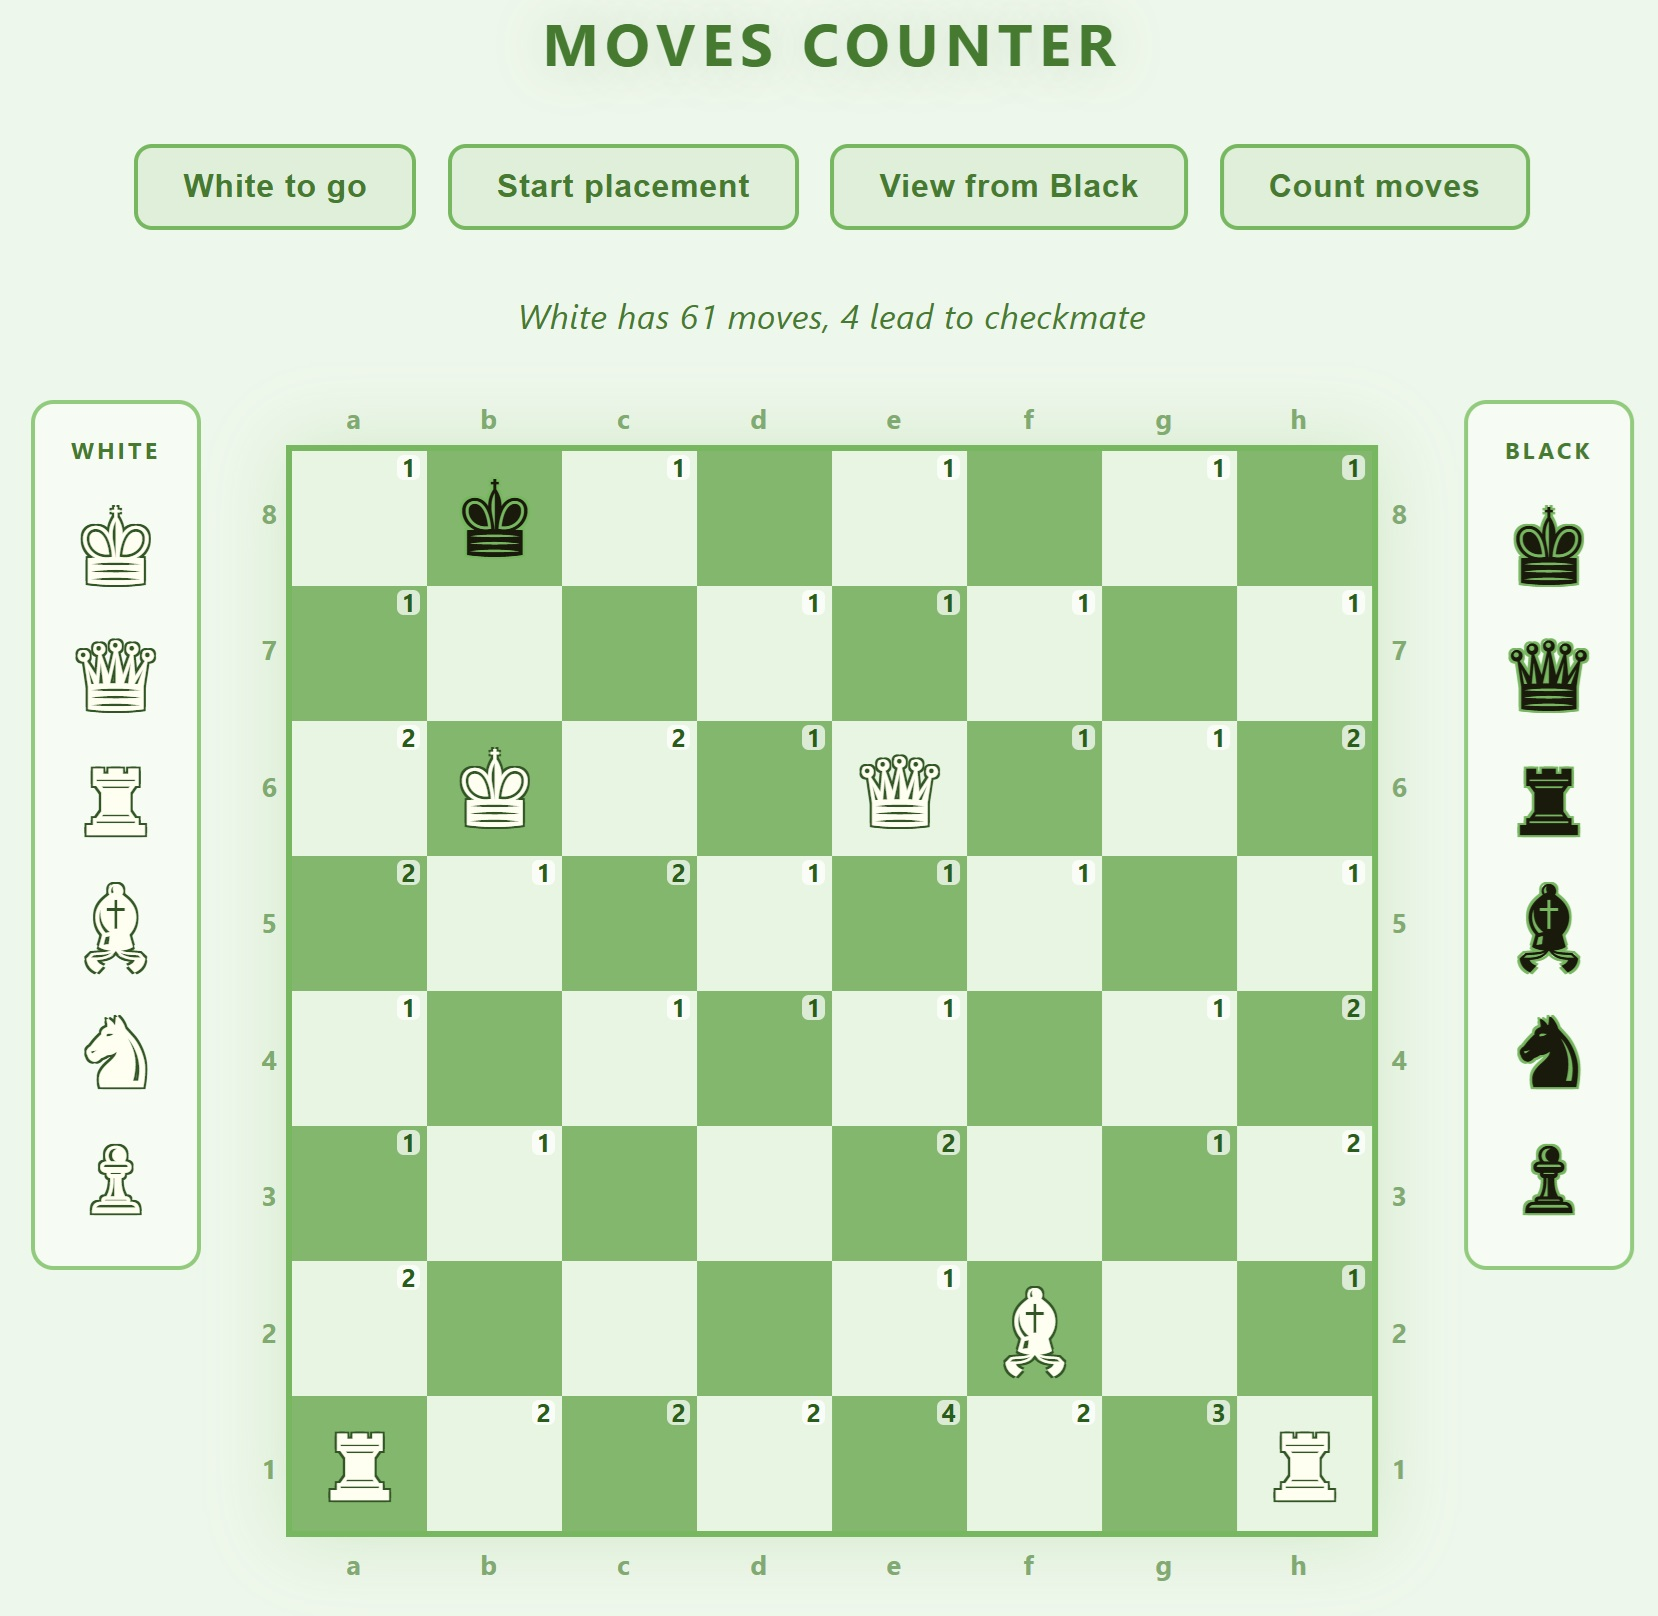
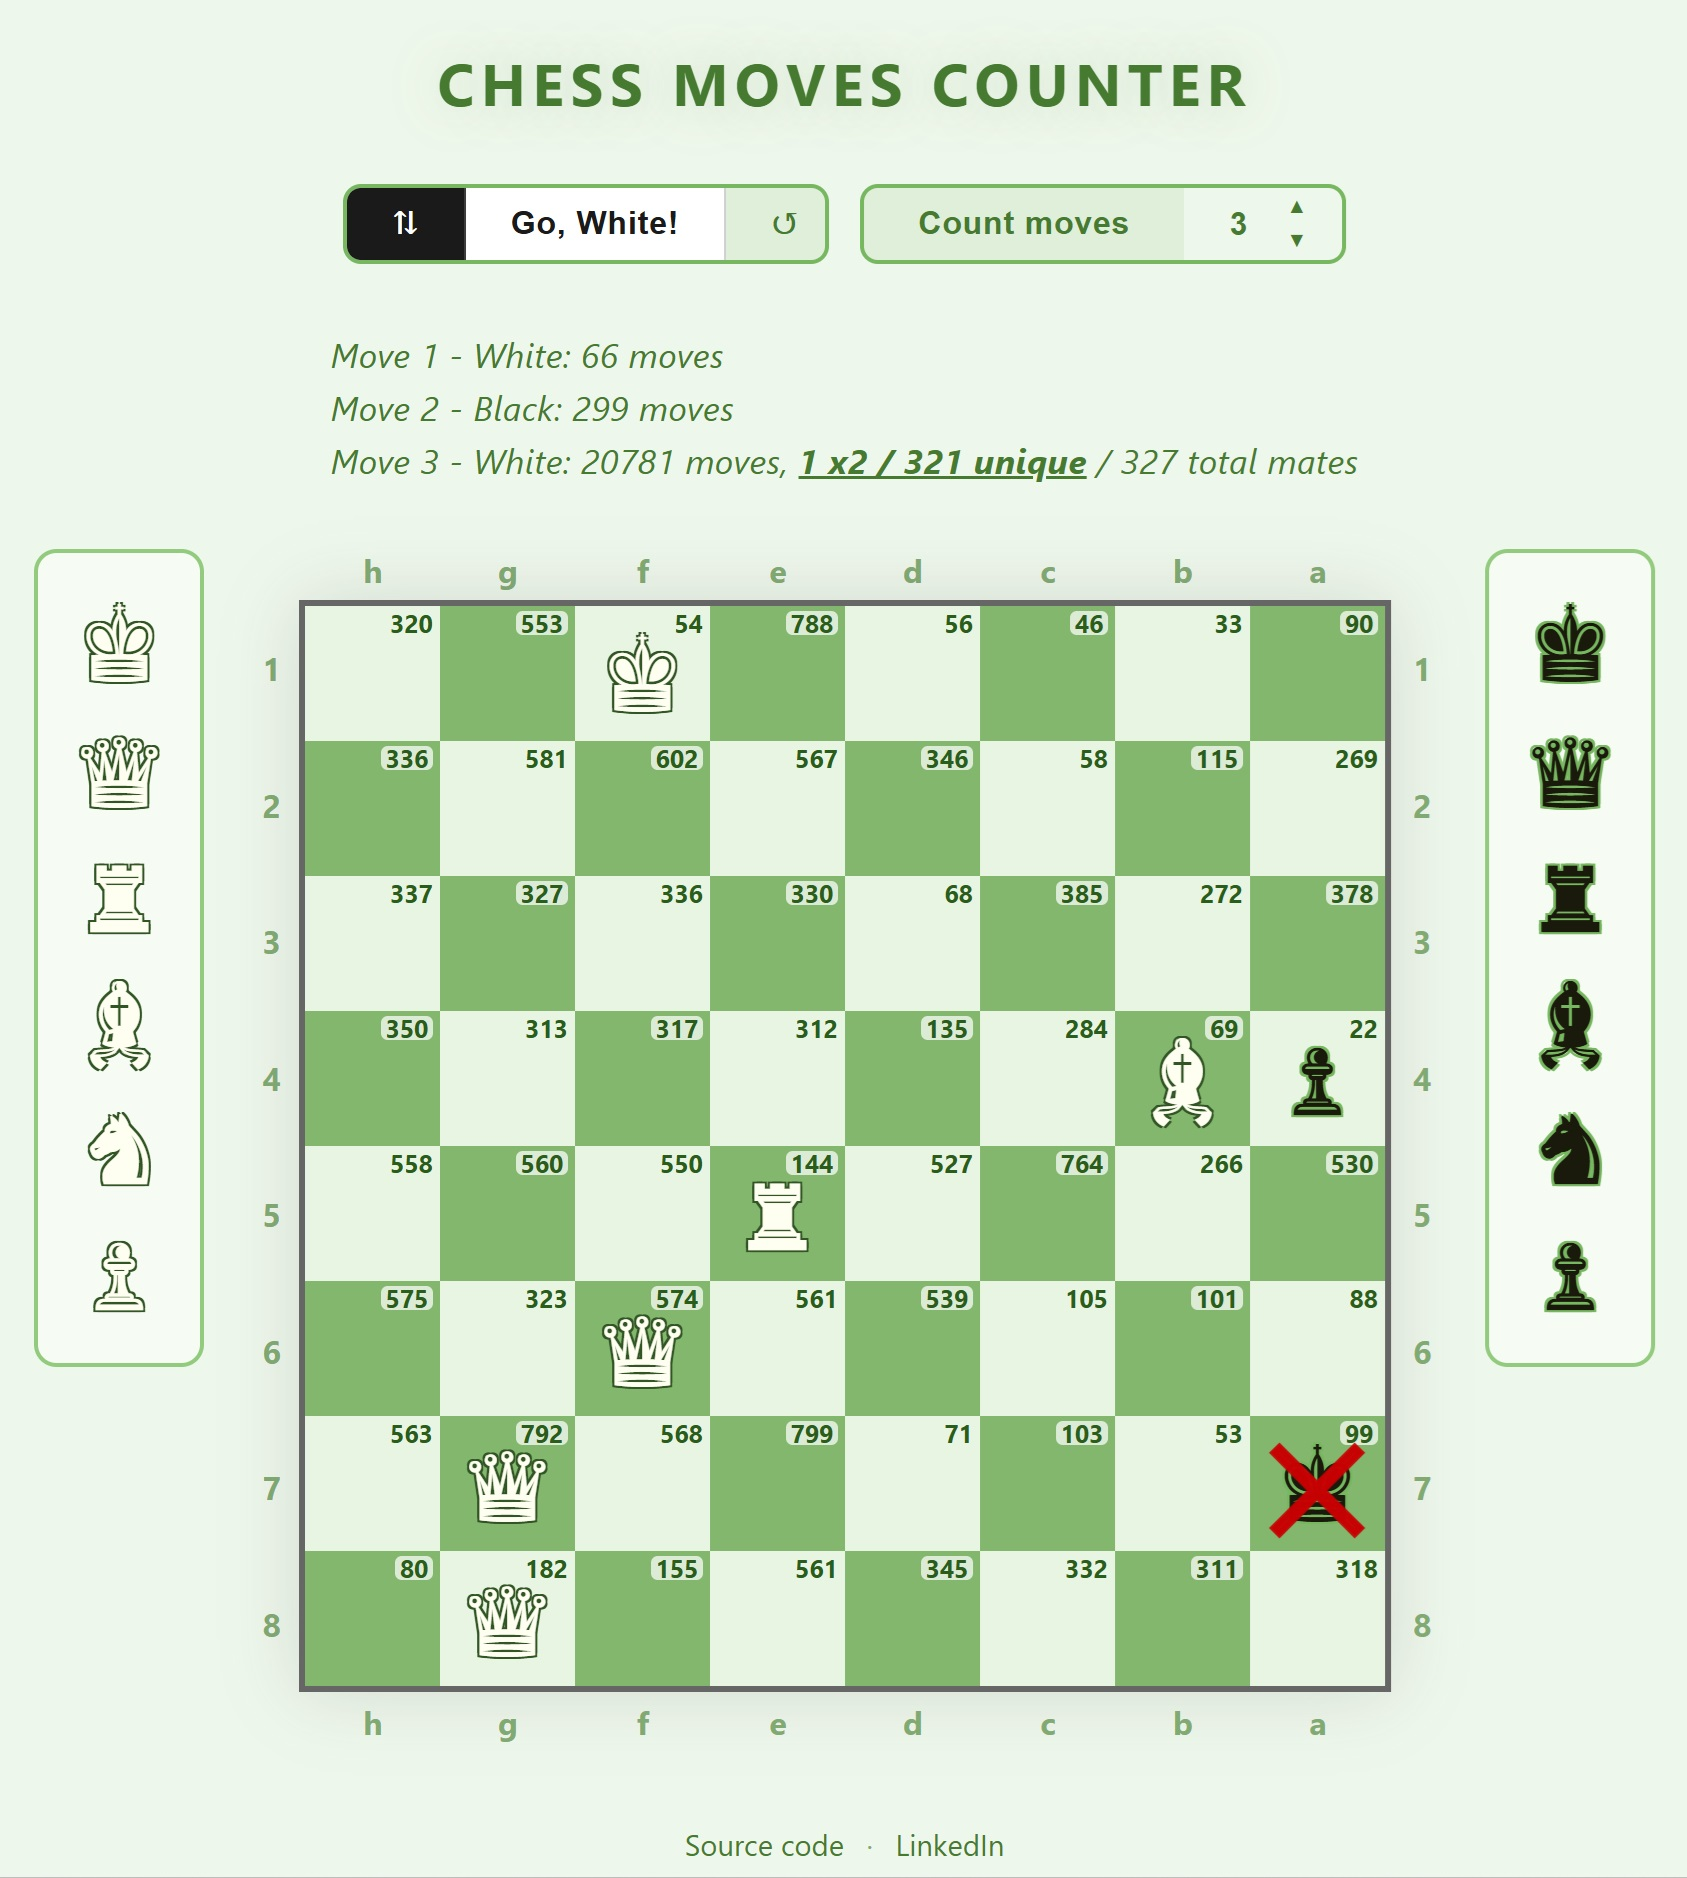
feature: organize duplicated mates scrolling

Changed region(s): [[0.1538, 0.1856, 0.9843, 0.9901], [0.0615, 0.0, 0.9228, 0.1547], [0.0, 0.2475, 0.123, 0.7735]]

diff --git a/index.html b/index.html
@@ -3,13 +3,25 @@
 <head>
     <meta charset="UTF-8">
     <meta name="viewport" content="width=device-width, initial-scale=1.0">
-    <title>Chess Setup</title>
+    <meta name="description" content="Browser-based chess board editor that counts legal moves from any custom position, including castling and en passant. Features multi-ply game tree analysis with checkmate detection.">
+    <meta name="author" content="rioran">
+    <meta name="theme-color" content="#3a7a2a">
+
+    <meta property="og:title" content="Chess Moves Counter">
+    <meta property="og:description" content="Set up any chess position and instantly count legal moves. Multi-ply tree walk with checkmate detection, castling and en passant support.">
+    <meta property="og:type" content="website">
+    <meta property="og:url" content="https://rioran.github.io/chess-moves-counter/">
+
+    <title>Chess Moves Counter</title>
+    <link rel="canonical" href="https://rioran.github.io/chess-moves-counter/">
+    <link rel="icon" type="image/svg+xml" href="favicon.svg">
+
     <script src="https://cdn.jsdelivr.net/npm/brython@3.12.4/brython.min.js"></script>
     <script src="https://cdn.jsdelivr.net/npm/brython@3.12.4/brython_stdlib.js"></script>
     <link rel="stylesheet" href="style.css">
 </head>
 <body onload="brython()">
-    <h1>Moves Counter</h1>
+    <h1>Chess Moves Counter</h1>
 
     <div class="controls">
         <div class="btn-group">
@@ -34,5 +46,11 @@
     <div class="chess-layout" id="chess-layout"></div>
 
     <script type="text/python" src="chess.py"></script>
+
+    <footer>
+        <a href="https://github.com/Rioran/chess-moves-counter" target="_blank" rel="noopener noreferrer">Source code</a>
+        <span>·</span>
+        <a href="https://www.linkedin.com/in/rioran/" target="_blank" rel="noopener noreferrer">LinkedIn</a>
+    </footer>
 </body>
 </html>

diff --git a/style.css b/style.css
@@ -15,6 +15,25 @@ body {
     overscroll-behavior: none;
 }
 
+footer {
+    margin-top: auto;
+    display: flex;
+    align-items: center;
+    gap: 10px;
+    font-size: 13px;
+    color: #7aaa6e;
+    padding-top: 8px;
+}
+
+footer a {
+    color: #3a7a2a;
+    text-decoration: none;
+}
+
+footer a:hover {
+    text-decoration: underline;
+}
+
 h1 {
     font-size: 26px;
     font-weight: 700;
@@ -44,6 +63,7 @@ h1 {
     font-size: 14px;
     font-weight: 700;
     letter-spacing: 0.5px;
+    line-height: 1;
     transition: background 0.2s, color 0.2s;
 }
 .btn:hover { background: #6ab85a; color: #f5fff3; }
@@ -166,7 +186,7 @@ h1 {
 .board-and-ranks {
     display: flex;
     align-items: stretch;
-    gap: 8px;
+    gap: 0;
 }
 .rank-col {
     display: flex;
@@ -177,7 +197,8 @@ h1 {
     font-size: 14px;
     font-weight: 700;
     color: #7aaa6e;
-    width: 16px;
+    width: 24px;
+    padding-right: 8px;
     height: var(--sq);
     display: flex;
     align-items: center;
@@ -187,7 +208,8 @@ h1 {
 }
 .rlabel-r {
     justify-content: flex-start;
-    padding-left: 2px;
+    padding-right: 0;
+    padding-left: 10px;
 }
 .board {
     display: flex;

diff --git a/chess.py b/chess.py
@@ -72,7 +72,7 @@ def on_mate_click(ev):
             state.mate_view = None
         else:
             state.mate_view["mate_idx"] = next_idx
-            _apply_mate_path(state.board_saved, mates[next_idx])
+            _apply_mate_path(state.board_saved, mates[next_idx]["path"])
     else:
         # Enter mate view (possibly switching from a different ply)
         if state.mate_view:
@@ -80,7 +80,7 @@ def on_mate_click(ev):
         else:
             state.board_saved = [r[:] for r in state.board]
         state.mate_view = {"ply_idx": ply_idx, "mate_idx": 0}
-        _apply_mate_path(state.board_saved, mates[0])
+        _apply_mate_path(state.board_saved, mates[0]["path"])
 
     render()
 
@@ -476,21 +476,28 @@ def update_stats_bar():
         line = html.DIV(Class="turn-line")
         prefix = f"Move {i + 1} - {color_name}: {total} moves"
         if mc > 0:
-            s = "" if mc == 1 else "s"
-            if i == 0:
-                mate_label = f"{mc} mate{s}"
-            else:
-                mate_label = f"new {mc} mate{s}"
-            if state.mate_view and state.mate_view["ply_idx"] == i:
+            uc = len(mates)
+            in_view = state.mate_view and state.mate_view["ply_idx"] == i
+            if in_view:
                 mid = state.mate_view["mate_idx"]
-                btn_text = f"{mid + 1} / {len(mates)} mates"
+                occurrences = mates[mid]["count"]
+                if occurrences > 1:
+                    btn_text = f"{mid + 1} x{occurrences} / {uc} unique"
+                else:
+                    btn_text = f"{mid + 1} / {uc} unique"
             else:
-                btn_text = mate_label
+                if uc < mc:
+                    btn_text = f"{uc} unique mates"
+                else:
+                    s = "" if mc == 1 else "s"
+                    btn_text = f"{mc} mate{s}"
             line <= f"{prefix}, "
             btn = html.SPAN(btn_text, Class="mate-btn")
             btn.attrs["data-ply"] = str(i)
             btn.bind("click", on_mate_click)
             line <= btn
+            if uc < mc:
+                line <= f" / {mc} total mates"
         else:
             line <= prefix
         if stat["truncated"]:

diff --git a/moves.py b/moves.py
@@ -383,7 +383,8 @@ def count_tree(board, start_color, ep_pawn, castle_w, castle_b, max_depth):
         for _ in range(max_depth)
     ]
     targets = {}
-    total_mates = [0]
+    total_uniq = [0]          # global cap on unique mate positions stored
+    ply_mate_maps = [{} for _ in range(max_depth)]  # board_key -> mates list index
     timed_out = [False]
 
     def walk(board, color, castling, ep_file, path, ply):
@@ -417,9 +418,14 @@ def count_tree(board, start_color, ep_pawn, castle_w, castle_b, max_depth):
                 opp_moves = legal_moves(nb, opp, new_castling, new_ep)
                 if not opp_moves:
                     stat["mate_count"] += 1
-                    if total_mates[0] < TREE_MATE_CAP:
-                        stat["mates"].append(path + [move])
-                        total_mates[0] += 1
+                    board_key = tuple(tuple(row) for row in nb)
+                    mate_map = ply_mate_maps[ply]
+                    if board_key in mate_map:
+                        stat["mates"][mate_map[board_key]]["count"] += 1
+                    elif total_uniq[0] < TREE_MATE_CAP:
+                        mate_map[board_key] = len(stat["mates"])
+                        stat["mates"].append({"path": path + [move], "count": 1})
+                        total_uniq[0] += 1
                     else:
                         stat["truncated"] = True
                     continue  # no recursion into mated positions
@@ -430,4 +436,6 @@ def count_tree(board, start_color, ep_pawn, castle_w, castle_b, max_depth):
                     return
 
     walk(board, start_color, _init_castling(), init_ep_file, [], 0)
+    for stat in ply_stats:
+        stat["mates"].sort(key=lambda m: m["count"], reverse=True)
     return ply_stats, targets

diff --git a/README.md b/README.md
@@ -1,4 +1,4 @@
-# chess-moves-counter
+# Chess Moves Counter
 
 A browser-based chess board editor that counts legal moves from any custom position. Built with pure Python in the browser via [Brython](https://brython.info/) — no backend required.
 
@@ -8,21 +8,26 @@ Hosted on https://rioran.github.io/chess-moves-counter/
 
 ## Features
 
+**Board setup**
 - Drag pieces from the side panels onto the board to set up any position
 - Drag pieces between squares or off the board to remove them
-- Toggle between the standard starting position and an empty board
-- Flip the board to view from White's or Black's perspective
-- Select whose turn it is (White / Black)
+- Toggle between the standard starting position and an empty board (🗑 / ↺)
+- Flip the board to view from White's or Black's perspective (⇅)
+- Select whose turn it is with the Go button (White / Black)
+- Fully playable on mobile with touch drag-and-drop
+
+**Move counting**
 - Count legal moves for the active side, including castling and en passant
 - Each square shows how many pieces can land on it next move
-- Stats display total moves and how many immediately deliver checkmate
-- Castling squares for both king and rook are highlighted in the move count
 - A shield icon (⛨) on the king marks retained castling rights
 - Double arrow on a pawn marks it as capturable en passant; arrows flip with board perspective
-- Fully playable on mobile with touch drag-and-drop
-- Multi-ply tree walk (1–6 plies) with a depth selector next to the count button
-- Per-ply stats lines show total moves and new mates for that ply
-- Click a mate count to cycle through all stored mate positions on the board
+- Castling squares for both king and rook are highlighted in the move count
+
+**Multi-ply tree walk**
+- Depth selector (1–6 plies) next to the Count button
+- Per-ply stats show total moves and newly discovered checkmates
+- Duplicate mate positions are deduplicated — stats show unique mates and total occurrences
+- Click a mate count to cycle through unique mate positions; occurrence count shown while cycling
 - A red ✕ marks the mated king during preview; the board is locked until exited
 
 ## Local development
@@ -33,4 +38,7 @@ python3 -m http.server 8000
 
 Then open http://localhost:8000 in your browser.
 
+## Author
+
+[rioran](https://www.linkedin.com/in/rioran/) — [source code](https://github.com/Rioran/chess-moves-counter)
 
